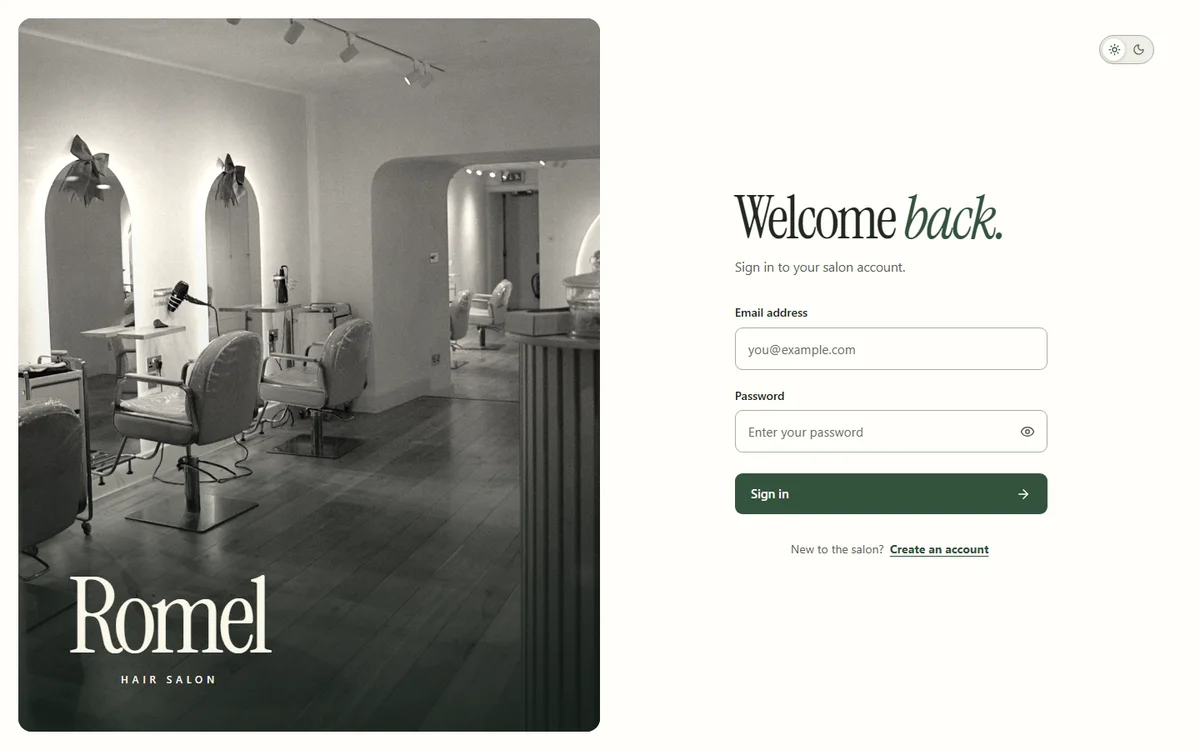
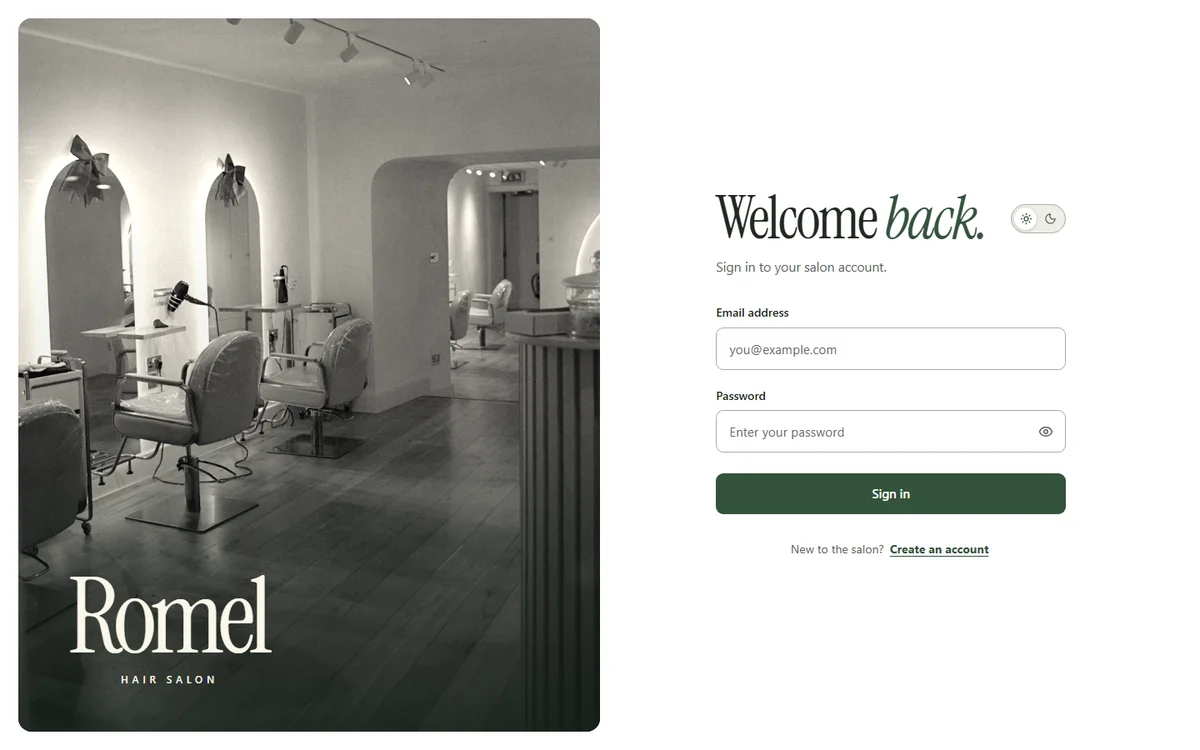
Align page typography and place theme controls in headers

diff --git a/src/App.css b/src/App.css
@@ -13,7 +13,7 @@
 .auth-form { display: flex; flex-direction: column; gap: 1rem; margin: 1.25rem 0; }
 .auth-switch { width: 100%; font-size: 0.875rem; }
 .account-card { width: 100%; max-width: 540px; }
-.account-fields { display: grid; grid-template-columns: repeat(2, minmax(0, 1fr)); max-width: 960px; }
+.account-fields { display: grid; grid-template-columns: repeat(2, minmax(0, 1fr)); gap: 1rem 1.25rem; }
 .account-fields > .flex, .account-fields > button { grid-column: 1 / -1; justify-self: start; }
 .records-card { margin-bottom: 1.5rem; }
 .records-card .table-container { margin-top: 1rem; }
@@ -271,7 +271,7 @@ td .text-button + .text-button { margin-inline-start: .8rem; }
 .sidebar-separator { margin: auto .5rem .25rem; min-height: .8rem; border-bottom: 1px solid var(--border); }
 .sidebar-menu-btn { display: none; }
 .theme-switch {
-  position: fixed; z-index: 15; display: flex; align-items: center; justify-content: space-around;
+  position: relative; flex: 0 0 66px; display: flex; align-items: center; justify-content: space-around;
   width: 66px; height: 35px; padding: 3px; cursor: pointer; border-radius: 22px;
   background: var(--surface-muted); color: var(--text-muted); border: 1px solid var(--input-border);
 }
@@ -281,10 +281,25 @@ td .text-button + .text-button { margin-inline-start: .8rem; }
 [data-theme='dark'] .theme-thumb { transform: translateX(31px); }
 [data-theme='dark'] .theme-switch svg:first-of-type { color: var(--text-muted); transform: rotate(65deg) scale(.88); }
 [data-theme='dark'] .theme-switch svg:last-of-type { color: var(--primary); transform: rotate(-15deg); }
-.theme-workspace { bottom: 1.2rem; left: 1.65rem; }
-.theme-entry { top: clamp(1rem, 3vw, 2.6rem); right: clamp(1.1rem, 3.8vw, 3.8rem); }
-.theme-general { right: 1rem; bottom: 1rem; }
-.customer-main, .preview-entry:has(.account-card) { padding-bottom: 4.5rem; }
+
+
+/* Page headers keep actions on the same alignment grid as their content. */
+.header-actions, .account-header, .entry-header { display: flex; align-items: center; gap: 1rem; }
+.header-actions { flex-wrap: wrap; }
+.header-actions .header-identity { max-width: 15rem; overflow-wrap: anywhere; line-height: 1.3; }
+.header-actions .profile-avatar { margin-inline-start: .35rem; }
+.entry-header, .account-header { justify-content: space-between; }
+.entry-header h1 { margin: 0; }
+.account-header { padding-bottom: 1rem; margin-bottom: 1.5rem; border-bottom: 1px solid var(--border); }
+.account-card h1 { font-size: 2.75rem; letter-spacing: -.035em; }
+.account-card .auth-form { margin-bottom: 0; }
+.customer-header { padding-inline: max(1rem, calc((100% - 968px) / 2)); border-width: 0 0 1px; }
+.customer-header h1 { margin: 0; font-size: 2rem; }
+@media (max-width: 600px) {
+  .top-header .header-identity, .top-header .profile-avatar { display: none; }
+  .header-actions { gap: .6rem; }
+  .top-header h1 { flex: 1 1 9rem; overflow-wrap: anywhere; }
+}
 
 /* Account entry */
 .salon-entry { display: grid; grid-template-columns: minmax(0, 1fr) minmax(0, 1fr); min-height: 100svh; padding: clamp(12px, 1.5vw, 24px); background: var(--surface); }
@@ -295,7 +310,7 @@ td .text-button + .text-button { margin-inline-start: .8rem; }
 .entry-wordmark span { font: 400 clamp(5.5rem, 8.7vw, 9.5rem)/.86 var(--display); letter-spacing: -.055em; }
 .entry-wordmark small { margin-top: 1rem; font-size: .77rem; font-weight: 600; letter-spacing: .37em; text-indent: .37em; text-transform: uppercase; }
 .entry-panel { display: grid; place-items: center; padding: 5.5rem clamp(1.5rem, 5vw, 6rem); }
-.entry-content { width: 100%; max-width: 375px; }
+.entry-content { width: 100%; max-width: 420px; }
 .entry-content h1 { font: 400 clamp(3.15rem, 4.9vw, 5rem)/1.02 var(--display); letter-spacing: -.035em; text-wrap: balance; }
 .entry-content h1 em { color: var(--primary); font-weight: 400; }
 .entry-subtitle { color: var(--text-muted); font-size: .98rem; margin: .6rem 0 2rem; }
@@ -305,7 +320,7 @@ td .text-button + .text-button { margin-inline-start: .8rem; }
 .entry-password { position: relative; }
 .entry-password input { padding-right: 3.1rem !important; }
 .entry-password button { position: absolute; right: 2px; top: 2px; bottom: 2px; width: 44px; display: grid; place-items: center; color: var(--text-muted); background: transparent; border: 0; border-radius: 7px; }
-.entry-submit { min-height: 49px; justify-content: space-between; padding-inline: 1.15rem; margin-top: .35rem; }
+.entry-submit { min-height: 49px; justify-content: center; padding-inline: 1.15rem; margin-top: .35rem; }
 .entry-switch { margin-top: 1.75rem; color: var(--text-muted); text-align: center; font-size: .88rem; }
 .entry-switch button { border: 0; background: transparent; color: var(--primary); font-weight: 650; padding: .2rem; text-decoration: underline; text-decoration-thickness: 1px; text-underline-offset: .2em; }
 .catalog-item { text-align: left; }
@@ -320,7 +335,6 @@ button.catalog-item:hover:not(:disabled) { border-color: var(--primary); }
   .sidebar-navigation.open { margin-top: .6rem; display: flex; flex-direction: column; flex-wrap: nowrap; max-height: calc(100dvh - 105px); padding-bottom: .4rem; }
   .sidebar-link { min-height: 42px; }
   .sidebar-separator { margin-top: .3rem; }
-  .theme-workspace { left: auto; bottom: auto; top: 13px; right: 4.3rem; }
   .main-content { overflow: visible; }
   .top-header .gap-4 { gap: .6rem; }
   .top-header { gap: .7rem; }
@@ -331,7 +345,6 @@ button.catalog-item:hover:not(:disabled) { border-color: var(--primary); }
   .entry-wordmark span { font-size: 4.6rem; }
   .entry-wordmark small { margin-top: .55rem; font-size: .6rem; }
   .entry-panel { padding: 2rem 1rem 2.4rem; }
-  .theme-entry { position: absolute; top: 1.45rem; right: 1.45rem; }
 }
 @media(prefers-reduced-motion: reduce) {
   *, *::before, *::after { transition-duration: 0s !important; animation-duration: .01ms !important; }

diff --git a/src/index.css b/src/index.css
@@ -12,8 +12,8 @@
 }
 :root {
   color-scheme: light;
-  --bg-color: #f6f5ef;
-  --surface: #fffefa;
+  --bg-color: #f6f7f4;
+  --surface: #fff;
   --surface-muted: #eeeee6;
   --text-main: #202920;
   --text-muted: #596158;
@@ -67,8 +67,8 @@ body {
   -webkit-font-smoothing: antialiased;
 }
 h1, h2, h3, h4, h5, h6 { font-weight: 600; line-height: 1.2; margin-bottom: .5rem; }
-h1, .card > h2, .customer-header h1 { font-family: var(--display); font-weight: 400; }
-.card > h2 { font-size: clamp(1.65rem, 2.5vw, 2.15rem); }
+h1, .customer-header h1 { font-family: var(--display); font-weight: 400; }
+.card h2 { font-size: clamp(1.17rem, 1rem + .6vw, 1.45rem); font-weight: 600; letter-spacing: -.025em; line-height: 1.3; }
 a { color: var(--primary); text-underline-offset: .18em; }
 a:hover { color: var(--primary-hover); }
 button, input, textarea, select { font: inherit; color: inherit; }
@@ -77,11 +77,11 @@ button { cursor: pointer; }
 input[type='checkbox'], input[type='radio'] { accent-color: var(--primary); }
 .glass { background: var(--surface); border: 1px solid var(--border); }
 .app-container { display: flex; height: 100dvh; overflow: hidden; }
-.sidebar { width: 232px; background: var(--surface); border-right: 1px solid var(--border); display: flex; flex-direction: column; padding: 1.5rem 1rem 5rem; z-index: 10; }
+.sidebar { width: 232px; background: var(--surface); border-right: 1px solid var(--border); display: flex; flex-direction: column; padding: 1.5rem 1rem; z-index: 10; }
 .main-content { flex: 1; min-width: 0; display: flex; flex-direction: column; overflow-y: auto; padding: clamp(1rem, 3vw, 3.25rem); }
 .top-header { display: flex; flex-wrap: wrap; justify-content: space-between; align-items: center; gap: 1rem; padding-bottom: 1.35rem; border-bottom: 1px solid var(--border); margin-bottom: 1.5rem; }
-.top-header h1 { margin: 0; font: 400 clamp(2.25rem, 4.2vw, 3.45rem)/1.02 var(--display); }
-.card { min-width: 0; background: var(--surface); color: var(--text-main); border: 1px solid var(--border); border-radius: var(--radius-lg); padding: clamp(1.1rem, 2vw, 1.75rem); box-shadow: var(--shadow-sm); }
+.top-header h1 { margin: 0; letter-spacing: -.035em; font: 400 clamp(2.25rem, 3.6vw, 3.25rem)/1.08 var(--display); }
+.card { min-width: 0; background: var(--surface); color: var(--text-main); border: 1px solid var(--border); border-radius: var(--radius-lg); padding: clamp(1.1rem, 2vw, 1.75rem); box-shadow: none; }
 .btn { display: inline-flex; align-items: center; justify-content: center; gap: .5rem; min-height: 42px; padding: .6rem 1.05rem; border-radius: var(--radius-md); border: 1px solid transparent; font-size: .91rem; font-weight: 600; transition: background .18s ease, border-color .18s ease; text-decoration: none; }
 .btn-primary { color: var(--button-text); background: var(--primary); }
 .btn-primary:is(:hover,:focus-visible):not(:disabled) { color: var(--button-text); background: var(--primary-hover); }
@@ -96,9 +96,9 @@ input[type='checkbox'], input[type='radio'] { accent-color: var(--primary); }
 .grid-cols-3 { grid-template-columns: repeat(3,minmax(0,1fr)); }
 .grid-cols-4 { grid-template-columns: repeat(4,minmax(0,1fr)); }
 .table-container { width: 100%; overflow-x: auto; }
-table { width: 100%; border-collapse: collapse; font-size: .93rem; }
+table { font-variant-numeric: tabular-nums; width: 100%; border-collapse: collapse; font-size: .93rem; }
 th, td { padding: .9rem .75rem; text-align: left; border-bottom: 1px solid var(--border); }
-th { color: var(--text-muted); font-size: .78rem; font-weight: 600; background: var(--surface-muted); }
+th { color: var(--text-muted); font-size: .875rem; font-weight: 600; background: var(--surface-muted); }
 tbody tr:hover { background: var(--surface-muted); }
 td .btn { min-height: 34px; padding: .35rem .75rem; }
 .input-group { display: block; min-width: 0; }

diff --git a/src/components/Login.jsx b/src/components/Login.jsx
@@ -1,6 +1,7 @@
 import { useState } from 'react'
 import { useNavigate } from 'react-router'
-import { ArrowRight, Eye, EyeOff } from 'lucide-react'
+import ThemeToggle from './ThemeToggle'
+import { Eye, EyeOff } from 'lucide-react'
 import { Feedback } from './ui/Feedback'
 import { homeFor, useAuth } from '../auth/AuthContext'
 import { apiErrorMessage } from '../api/client'
@@ -43,7 +44,7 @@ export default function Login() {
     </div>
     <section className="entry-panel" aria-labelledby="entry-heading">
       <div className="entry-content">
-        <h1 id="entry-heading">{registering ? <>Create an <em>account.</em></> : <>Welcome <em>back.</em></>}</h1>
+        <header className="entry-header"><h1 id="entry-heading">{registering ? <>Create an <em>account.</em></> : <>Welcome <em>back.</em></>}</h1><ThemeToggle /></header>
         <p className="entry-subtitle">{registering ? 'Book appointments and see your visit history.' : 'Sign in to your salon account.'}</p>
         {auth.notice && <Feedback>{auth.notice}</Feedback>}
         {(error || auth.error) && <Feedback tone="error">{error || auth.error}</Feedback>}
@@ -58,7 +59,7 @@ export default function Login() {
               <button type="button" onClick={() => setVisible(!visible)} aria-label={visible ? 'Hide password' : 'Show password'}>{visible ? <EyeOff size={18} /> : <Eye size={18} />}</button>
             </div>
           </div>
-          <button className="btn btn-primary entry-submit" disabled={pending}>{pending ? 'Please wait…' : registering ? 'Create account' : 'Sign in'}<ArrowRight size={18} /></button>
+          <button className="btn btn-primary entry-submit" disabled={pending}>{pending ? 'Please wait…' : registering ? 'Create account' : 'Sign in'}</button>
         </form>
         <p className="entry-switch">{registering ? 'Already have an account?' : 'New to the salon?'} <button type="button" disabled={pending} onClick={switchForm}>{registering ? 'Sign in' : 'Create an account'}</button></p>
       </div>

diff --git a/src/App.jsx b/src/App.jsx
@@ -3,6 +3,7 @@ import { Navigate, Outlet, Route, Routes, useLocation } from 'react-router'
 import { LogOut } from 'lucide-react'
 import { homeFor, useAuth } from './auth/AuthContext'
 import { apiErrorMessage } from './api/client'
+import ThemeToggle from './components/ThemeToggle'
 import Sidebar from './components/Sidebar'
 import Dashboard from './components/Dashboard'
 import Appointments from './components/Appointments'
@@ -50,12 +51,12 @@ function EmployeeLayout() {
     try { await auth.logout() } catch (err) { setError(apiErrorMessage(err)) } finally { setPending(false) }
   }
   return <div className="app-container"><Sidebar /><main className="main-content">
-    <div className="top-header"><div><h1 className="text-2xl font-bold">{title}</h1>
-      </div><div className="flex items-center gap-4">
+    <header className="top-header"><h1>{title}</h1>
+      <div className="header-actions"><ThemeToggle />
       <div className="profile-avatar">{auth.user.displayName.split(' ').map((s) => s[0]).slice(0, 2).join('')}</div>
-      <div><p className="text-sm font-bold">{auth.user.displayName}</p><p className="text-muted text-sm">{auth.user.roleName}</p></div>
+      <div className="header-identity"><p className="text-sm font-bold">{auth.user.displayName}</p><p className="text-muted text-sm">{auth.user.roleName}</p></div>
       <button className="btn btn-secondary" aria-label="Sign out" disabled={pending} onClick={logout}><LogOut size={16} /></button>
-    </div></div>{error && <Feedback tone="error">{error}</Feedback>}<Outlet />
+    </div></header>{error && <Feedback tone="error">{error}</Feedback>}<Outlet />
   </main></div>
 }
 function EmployeeHome() { return <Navigate to={homeFor(useAuth().user)} replace /> }

diff --git a/src/components/ThemeToggle.jsx b/src/components/ThemeToggle.jsx
@@ -1,6 +1,5 @@
 import { useEffect, useState } from 'react'
 import { Sun, Moon } from 'lucide-react'
-import { useLocation } from 'react-router'
 
 const storageKey = 'romel-theme'
 
@@ -13,7 +12,6 @@ function savedTheme() {
 }
 
 export default function ThemeToggle() {
-  const { pathname } = useLocation()
   const [theme, setTheme] = useState(() => document.documentElement.dataset.theme || 'light')
   useEffect(() => {
     document.documentElement.dataset.theme = theme
@@ -38,8 +36,7 @@ export default function ThemeToggle() {
     try { localStorage.setItem(storageKey, next) } catch { /* Keep this session's selection. */ }
   }
   const label = theme === 'light' ? 'Switch to dark mode' : 'Switch to light mode'
-  const position = pathname.startsWith('/app') ? 'workspace' : pathname === '/' ? 'entry' : 'general'
-  return <button className={'theme-switch theme-' + position} type="button" onClick={toggle} title={label} aria-label={label}>
+  return <button className="theme-switch" type="button" onClick={toggle} title={label} aria-label={label}>
     <span className="theme-thumb" aria-hidden="true" /><Sun size={15} aria-hidden="true" /><Moon size={15} aria-hidden="true" />
   </button>
 }

diff --git a/src/components/CustomerPortal.jsx b/src/components/CustomerPortal.jsx
@@ -4,6 +4,7 @@ import { LogOut } from 'lucide-react'
 import { useAuth } from '../auth/AuthContext'
 import { apiErrorMessage } from '../api/client'
 import ScopedRecords from '../pages/ScopedRecords'
+import ThemeToggle from './ThemeToggle'
 import Appointments from './Appointments'
 import { Feedback } from './ui/Feedback'
 
@@ -15,7 +16,7 @@ export default function CustomerPortal() {
     try { await auth.logout() } catch (err) { setError(apiErrorMessage(err)) } finally { setPending(false) }
   }
   return <div className="customer-portal"><header className="glass customer-header"><h1 className="text-xl text-primary">Romel Salon</h1>
-    <div className="flex items-center gap-4"><span>Hello, {auth.user.displayName}</span><Link to="/account">My Account</Link>
+    <div className="header-actions"><ThemeToggle /><Link to="/account">My Account</Link>
       <button className="btn btn-secondary" disabled={pending} onClick={logout}><LogOut size={16} />Sign out</button></div>
   </header><main className="customer-main flex-col gap-4">
     {error && <Feedback tone="error">{error}</Feedback>}<Appointments /><ScopedRecords kind="history" />

diff --git a/src/pages/Account.jsx b/src/pages/Account.jsx
@@ -2,6 +2,7 @@ import { useState } from 'react'
 import { Link } from 'react-router'
 import { homeFor, useAuth } from '../auth/AuthContext'
 import { apiErrorMessage } from '../api/client'
+import ThemeToggle from '../components/ThemeToggle'
 import { Feedback } from '../components/ui/Feedback'
 
 export default function Account() {
@@ -19,7 +20,8 @@ export default function Account() {
     finally { setPending(false) }
   }
   return <div className="preview-entry"><section className="card account-card">
-    <Link to={homeFor(auth.user)}>Back to your workspace</Link><h1 className="mt-4">My Account</h1>
+    <header className="account-header"><Link to={homeFor(auth.user)}>Back to workspace</Link><ThemeToggle /></header>
+    <h1>My account</h1>
     <p>{auth.user.displayName} · {auth.user.roleName}</p><p className="text-muted">{auth.user.email}</p>
     <h2 className="mt-4">Change password</h2><Feedback>Changing your password ends all of your sessions. Sign in again afterward.</Feedback>
     {error && <Feedback tone="error">{error}</Feedback>}

diff --git a/src/pages/Finance.css b/src/pages/Finance.css
@@ -4,8 +4,10 @@
 .finance-head a {display:inline-flex;align-items:center;gap:.2rem}
 .finance-head {margin-bottom:1rem}
 .finance-metrics {display:grid;grid-template-columns:repeat(auto-fit,minmax(min(100%,165px),1fr));gap:1rem}
-.finance-metric {position:relative;overflow:hidden}
-.finance-metric svg {color:var(--primary);margin-bottom:.85rem}
+.finance-metric {display:grid;grid-template-columns:minmax(0,1fr) auto;align-content:start;align-items:center;gap:.7rem}
+.finance-metric svg {grid-column:2;grid-row:1;color:var(--primary)}
+.finance-metric p {grid-column:1;grid-row:1}
+.finance-metric strong {grid-column:1 / -1}
 .finance-metric p,.finance-list small {color:var(--text-muted);font-size:.875rem}
 .finance-metric strong {font-size:clamp(1.45rem,2.7vw,2.15rem);font-weight:600;letter-spacing:-.04em;font-variant-numeric:tabular-nums}
 .finance-list {list-style:none}

diff --git a/src/main.jsx b/src/main.jsx
@@ -4,14 +4,12 @@ import { BrowserRouter } from 'react-router'
 import AuthProvider from './auth/AuthProvider'
 import './index.css'
 import App from './App.jsx'
-import ThemeToggle from './components/ThemeToggle'
 
 createRoot(document.getElementById('root')).render(
   <StrictMode>
     <BrowserRouter>
       <AuthProvider>
         <App />
-        <ThemeToggle />
       </AuthProvider>
     </BrowserRouter>
   </StrictMode>,
